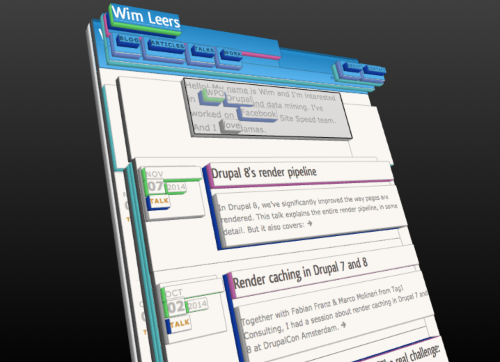
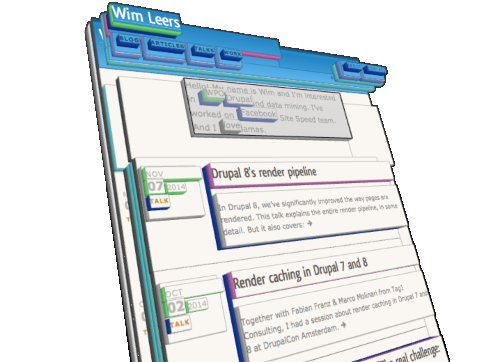
Transparent visuals, less overlap, better in the end.

diff --git a/src/style.css b/src/style.css
@@ -9,6 +9,13 @@ body {
   text-decoration: underline;
 }
 
+/* Getting rid of image borders */
+.reveal section img {
+    background: transparent;
+    border: none;
+    box-shadow: none;
+}
+
 /* Footer styling */
 .reveal .footer {
   position: absolute;
